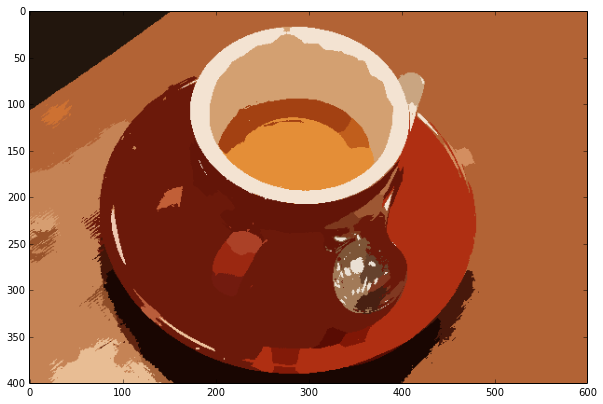
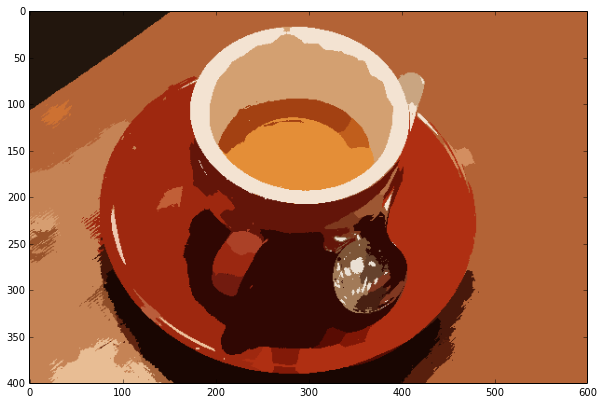
Recitified after correction

Changed region(s): [[0.1194, 0.1782, 0.6866, 0.9208], [0.6567, 0.8317, 0.7761, 0.9505]]

diff --git a/rag_demo.md b/rag_demo.md
@@ -149,11 +149,11 @@ show_img(edges_drawn_all)
 ![png](rag_demo_files/rag_demo_16_0.png)
 
 
-Let's see what happens by setting `thresh` to `30`, a value I arrived at with
+Let's see what happens by setting `thresh` to `29`, a value I arrived at with
 some trial and error.
 
 ```python
-edges_drawn_30 = display_edges(label_rgb, rag, 30 )
+edges_drawn_29 = display_edges(label_rgb, rag, 29 )
 show_img(edges_drawn_30)
 ```
 
@@ -174,7 +174,7 @@ labels a connected component as one region. Once the RAG is constructed, many si
 and more sophisticated strategies can improve the initial segmentation.
 
 ```python
-final_labels = graph.cut_threshold(labels, rag, 30)
+final_labels = graph.cut_threshold(labels, rag, 29)
 final_label_rgb = color.label2rgb(final_labels, img, kind='avg')
 show_img(final_label_rgb)
 ```
